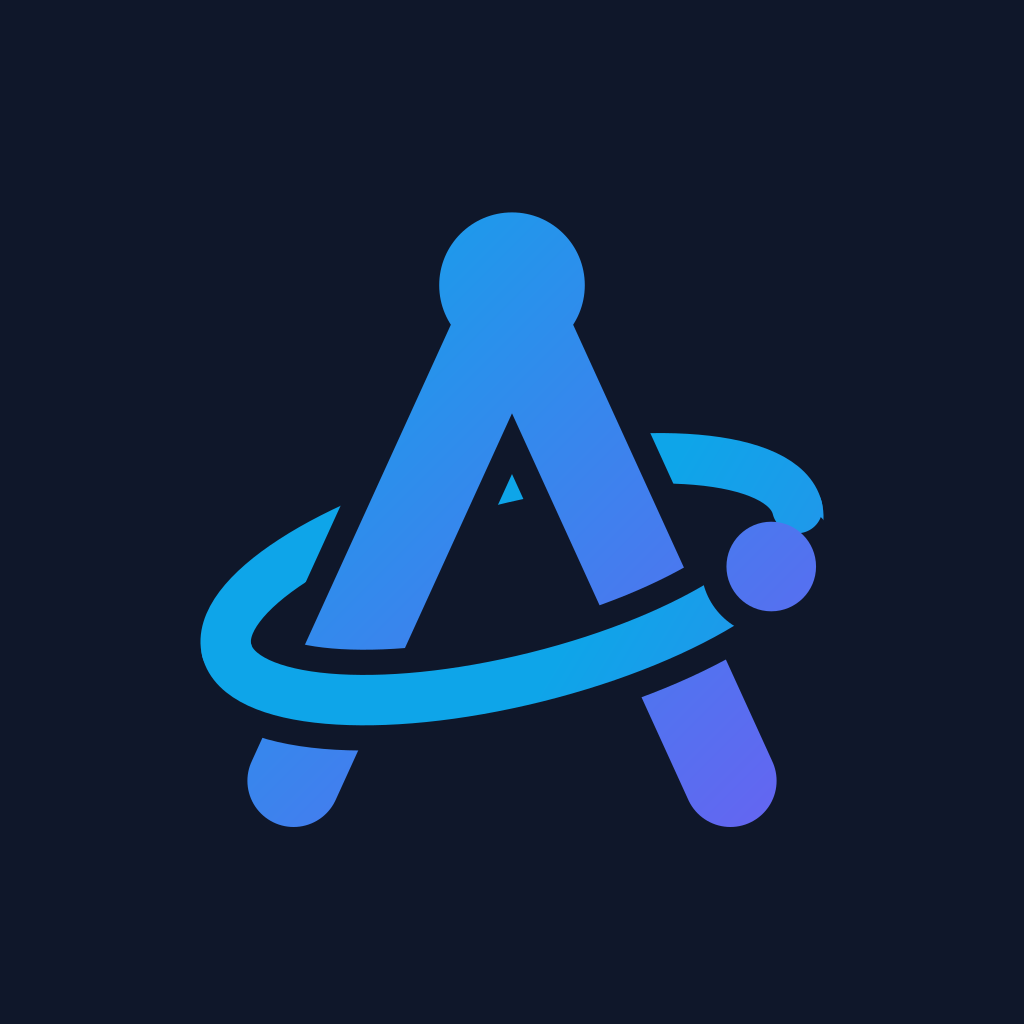
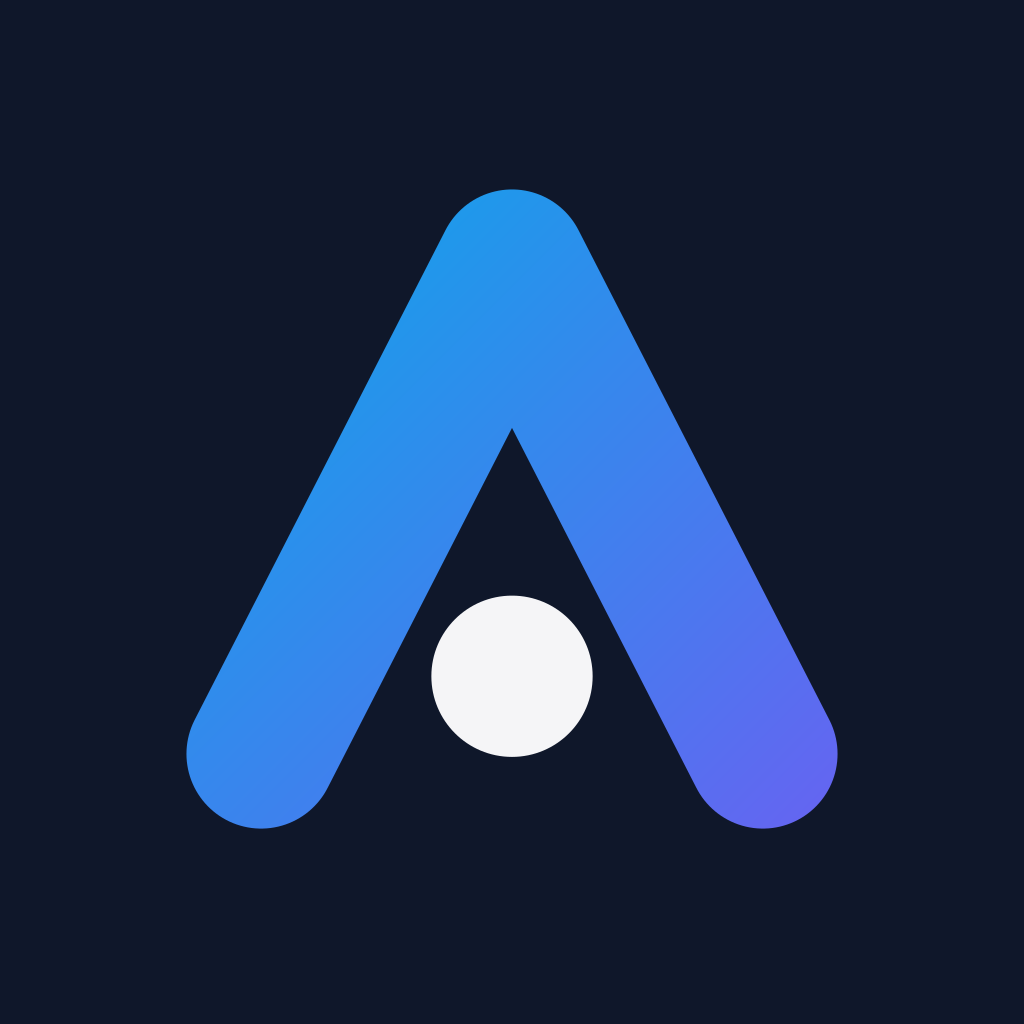
Give the organisation its own mark
A bold A whose crossbar is a dot (the O of Ops), flat on slate, replaces the
enlarged orbit A as the organisation avatar so it is not confused with product
app icons. Documented in brand.md 2.5 and section 8.

Claude-Session: https://claude.ai/code/session_01TY39Fwi4iJqNTyTkGCkrjt

Changed region(s): [[0.1562, 0.1875, 0.8438, 0.8125], [0.4688, 0.4062, 0.5312, 0.5]]

diff --git a/brand/brand.md b/brand/brand.md
@@ -77,7 +77,7 @@ above; never edit one by hand.
 | `assets/app-icon*.svg` | Full-bleed sources for platforms that apply their own mask (iOS, Android adaptive, PWA maskable) |
 | `assets/favicon/`, `assets/app-icon/`, `assets/tauri/` | Raster sets: ICO, PNG and ICNS sizes for web, mobile and desktop ([platforms](../guidelines/platforms.md#assets-per-platform)) |
 | `assets/social/og-image.*`, `assets/banner/readme-banner-*` | Link preview (1200 × 630) and README banner (light and dark) |
-| `assets/social/org-avatar.*` | Profile picture for the GitHub organisation and other accounts (1024 × 1024, full bleed). The host crops it to a rounded square or a circle, so the glyph box is 66 % of the canvas: large enough to read at 20 px, small enough to clear a circle |
+| `assets/social/org-avatar.*` | The organisation mark (section 2.5): profile picture for the GitHub organisation and other AnixOps accounts |
 | [`assets/ascii-mark.txt`](assets/ascii-mark.txt) | Three-line ASCII mark for terminals ([terminal](../guidelines/terminal.md)) |
 
 The maskable and adaptive icons keep the glyph inside the central safe zone
@@ -107,6 +107,23 @@ follows the theme:
 
 In dark mode the lockup text uses `--label-1` / `--label-2` (light text); the
 tile stays slate with the gradient glyph.
+
+### 2.5 Organisation mark
+
+The AnixOps organisation itself (its GitHub profile and other accounts that
+speak for the maker, not for one product) has its own mark, so it is not
+confused with a product's app icon, which carries the orbit A. It is a **bold
+A whose crossbar is a dot**: the A of Anix and the O of Ops.
+
+| Element | Geometry (24-unit grid) |
+|---|---|
+| Legs | (3.6, 20.1) to (12, 3.7) to (20.4, 20.1). Stroke 5, round joins and caps, brand gradient |
+| Dot | Circle at (12, 17.5), radius 2.7, `#F5F5F7` (dark `--label-1`) |
+| Canvas | 1024 × 1024, full bleed slate `#0F172A`, glyph box 70 % of the side |
+
+It is flat: no shadow, bevel or gloss. Hosts crop profile pictures to a
+rounded square or a circle, so the file has no corner radius of its own.
+Products keep the orbit A; do not use the organisation mark as an app icon.
 
 ## 3. Colour
 
@@ -262,3 +279,8 @@ All numbers use `font-variant-numeric: tabular-nums`. Details:
    white A on a blue tile reads as Apple's App Store icon.
 2. The tile becomes slate with the gradient on the glyph; the palette and
    every token value stay as approved on 2026-10-01.
+
+## 8. Decisions (owner, 2026-11-10)
+
+1. The organisation gets its own flat mark (section 2.5), chosen over
+   orbit-based, monogram and glossy alternatives. Products keep the orbit A.

diff --git a/CHANGELOG.md b/CHANGELOG.md
@@ -7,9 +7,9 @@ All notable changes to AnixOps Design. Versions follow
 
 ### Added
 
-- `brand/assets/social/org-avatar.svg` and `.png`: full-bleed profile picture
-  for the GitHub organisation and other accounts, glyph box 66 % of the
-  canvas.
+- Organisation mark (`brand/brand.md` 2.5): a bold A whose crossbar is a dot,
+  for the GitHub organisation and other AnixOps accounts, as
+  `brand/assets/social/org-avatar.svg` and `.png`. Products keep the orbit A.
 
 ## 1.1.0 - 2026-11-08
 
